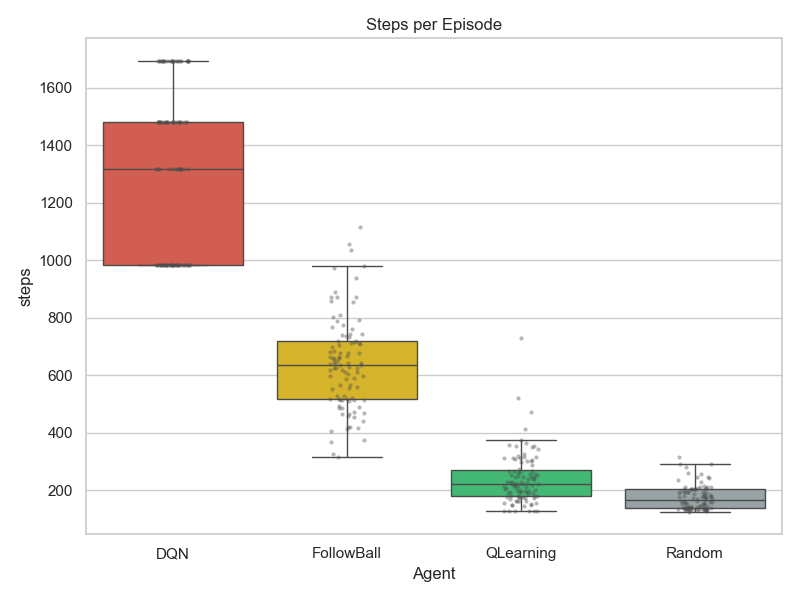
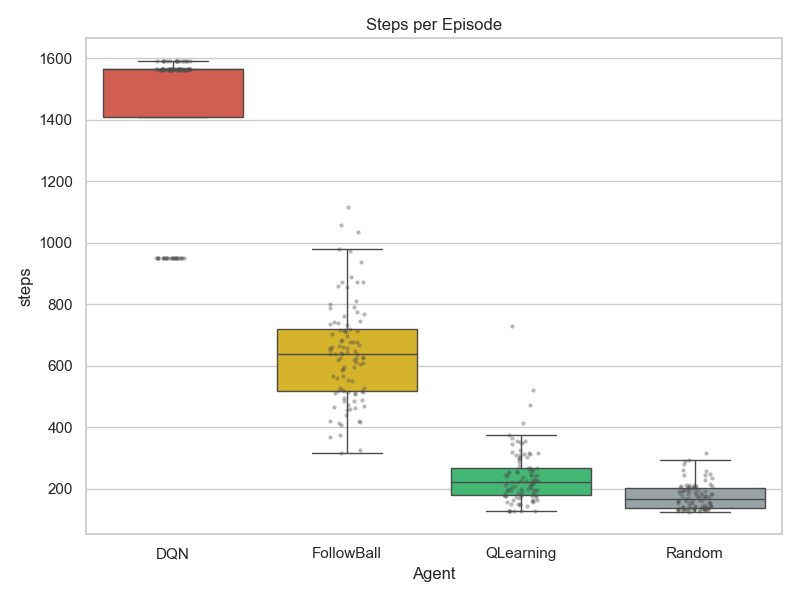
feat: Add scripts to collect metrics and record videos for Random, FollowBall, QLearning, and DQN agents, including initial generated outputs.

diff --git a/metrics/collect_metrics.py b/metrics/collect_metrics.py
@@ -66,7 +66,7 @@ def get_agent(agent_name, env):
         model_path = os.path.join(
             os.path.dirname(__file__), 
             '..', 
-            'agents', 'dqn', 'entrenamiento_10', 'RESULTADOS_BREAKOUT_10M', 'entrenamiento_breakout_10M', 'modelos', 'dqn_breakout_FINAL_10M.zip'
+            'agents', 'dqn', 'entrenamiento_10', 'RESULTADOS_BREAKOUT_10M', 'entrenamiento_breakout_10M', 'modelos', 'best_model.zip'
         )
         if not os.path.exists(model_path):
              raise FileNotFoundError(f"DQN model not found at {model_path}")

diff --git a/metrics/record_videos.py b/metrics/record_videos.py
@@ -60,7 +60,7 @@ def get_agent(agent_name, env):
         model_path = os.path.join(
             os.path.dirname(__file__), 
             '..', 
-            'agents', 'dqn', 'entrenamiento_10', 'RESULTADOS_BREAKOUT_10M', 'entrenamiento_breakout_10M', 'modelos', 'dqn_breakout_FINAL_10M.zip'
+            'agents', 'dqn', 'entrenamiento_10', 'RESULTADOS_BREAKOUT_10M', 'entrenamiento_breakout_10M', 'modelos', 'best_model.zip'
         )
         if not os.path.exists(model_path):
              raise FileNotFoundError(f"DQN model not found at {model_path}")
